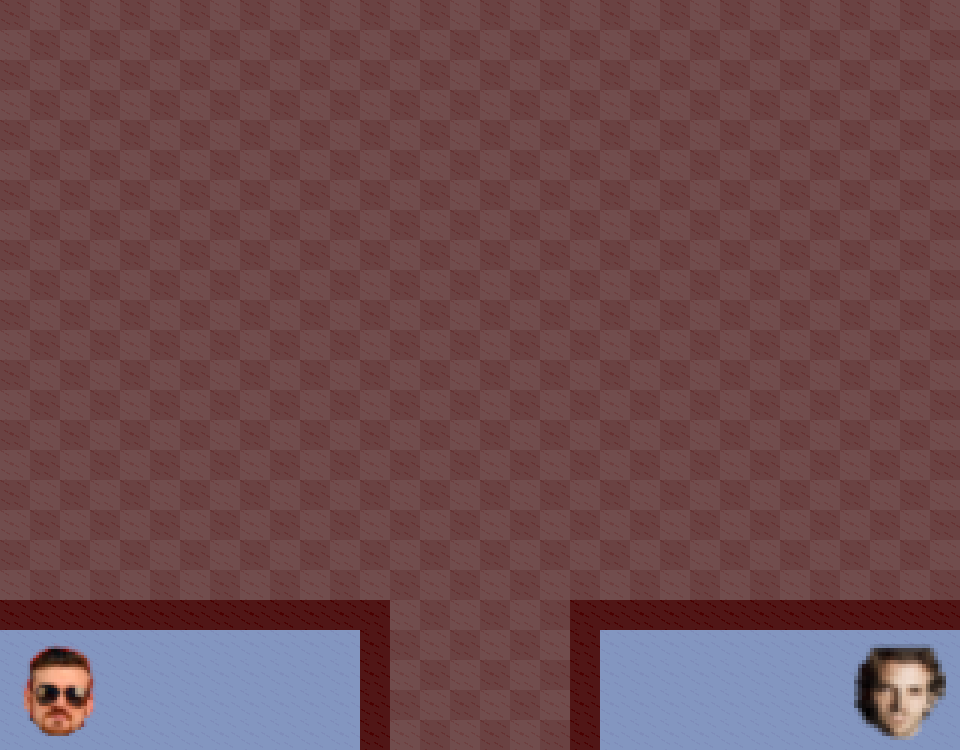
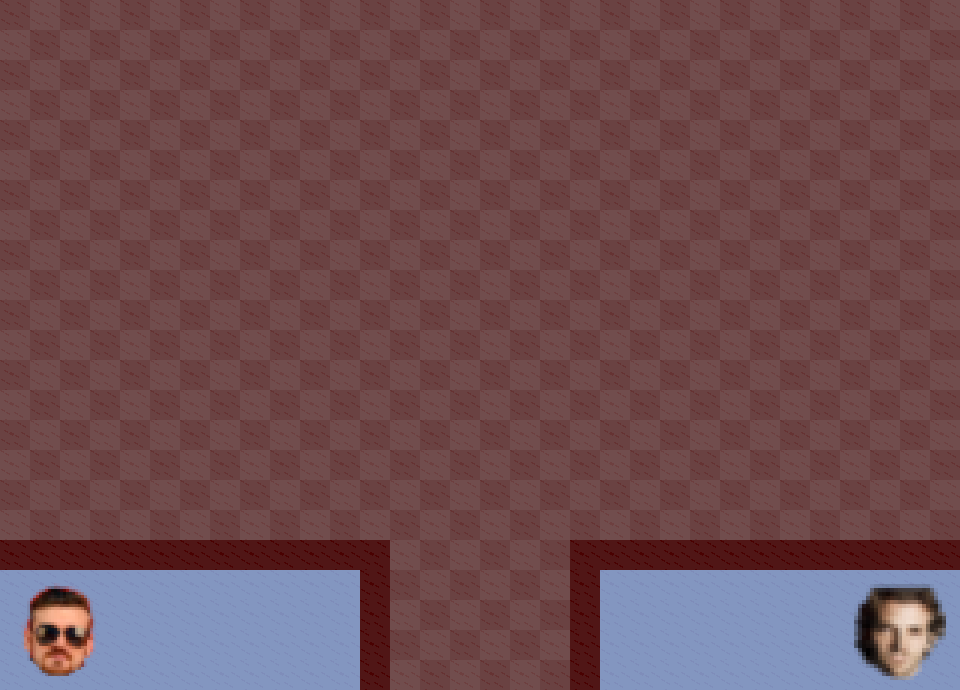
almost final

Changed region(s): [[0.5938, 0.7609, 1.0, 1.0], [0.0, 0.7609, 0.4062, 0.9739]]

diff --git a/src/org/academiadecodigo/enuminatti/saturdaynight/Game.java b/src/org/academiadecodigo/enuminatti/saturdaynight/Game.java
@@ -13,11 +13,12 @@ public class Game {
 
 
     public static final TypeOfGameObjects[] objectsToCreate = {TypeOfGameObjects.PLAYER, TypeOfGameObjects.PLAYER,
-            TypeOfGameObjects.CHICK, TypeOfGameObjects.DANCER, TypeOfGameObjects.DANCER, TypeOfGameObjects.DANCER};
+            TypeOfGameObjects.CHICK, TypeOfGameObjects.DANCER, TypeOfGameObjects.DANCER, TypeOfGameObjects.DANCER,
+            wwwwwwwwwwTypeOfGameObjects.DANCER, TypeOfGameObjects.DANCER, TypeOfGameObjects.DANCER};
 
     static public final long delay = 25;
     static public final int COLS = 32;
-    static public final int ROWS = 20;
+    static public final int ROWS = 18;
     private Grid gameGrid;
 
     private LinkedList<Collidable> mycollidabelObjects;
@@ -67,6 +68,7 @@ public class Game {
     }
 
     public void titleScreenController() {
+        bailando.play(true);
         menu = new TitleScreen();
         while (!menu.isPressed()){
             System.out.println("R");
@@ -79,8 +81,8 @@ public class Game {
     public void gamestart() throws InterruptedException {
         while (true) {
 
-
             for (int i = 0; i < mycollidabelObjects.size(); i++) {
+
                 switch (mycollidabelObjects.get(i).getType()) {
 
                     case CHICK:
@@ -102,7 +104,6 @@ public class Game {
                         break;
 
 
-
                 }
 
 
@@ -114,6 +115,7 @@ public class Game {
 
 
     }
+
 }
 
 

diff --git a/src/org/academiadecodigo/enuminatti/saturdaynight/Chick.java b/src/org/academiadecodigo/enuminatti/saturdaynight/Chick.java
@@ -18,6 +18,7 @@ public class Chick implements Collidable {
     private Grid chickGrid;
     private int moves = 0;
     private int beer = 0;
+    private boolean firsTime=true;
 
 
     public Chick(GridPosition chickPosition) {
@@ -35,13 +36,17 @@ public class Chick implements Collidable {
         //Initializing the Chick rectangle
         chickPicture = new Picture(x, y, "/chickPick.png");
         chickPicture.draw();
-        chickPosition.setCurrentDirection(Direction.RIGTH);
+        chickPosition.setCurrentDirection(Direction.UP);
 
     }
 
 
     public void move() {
-
+        if(firsTime){
+            accelerate();
+            firsTime = false;
+            return;
+        }
         int random = (int) Math.ceil(Math.random() * 100);
 
         //if the random is bigger then 95 the chick will stop moving for three iterations of the game
@@ -101,10 +106,14 @@ public class Chick implements Collidable {
     public void whenCollisionHappens() {
 
         chickPicture.delete();
-
-        Text endText = new Text(Grid.WIDTH / 2, Grid.HEIGHT / 2, "End");
-        endText.setColor(Color.RED);
-        endText.draw();
+        Picture end = new Picture(Grid.PADDING,Grid.PADDING, "/endScreen.png");
+        end.draw();
+        try {
+            Thread.sleep(6000);
+        } catch (InterruptedException ex) {
+            ex.printStackTrace();
+        }
+        System.exit(0);
 
 
     }

diff --git a/src/org/academiadecodigo/enuminatti/saturdaynight/CollisionDetector.java b/src/org/academiadecodigo/enuminatti/saturdaynight/CollisionDetector.java
@@ -111,7 +111,13 @@ public class CollisionDetector {
                     int chanceToWin3 = (int) (Math.random() * 100 + (player.getItems() * 5) + player.getConfidence());
                     System.out.println(chanceToWin3);
 
-                    if (player.getItems() == 3) {
+                    if (player.getItems() == 5) {
+                        chickWin.play(true);
+                        chick.whenCollisionHappens();
+                        continue;
+                    }
+
+                    if (player.getItems() >= 3 && player.getItems() < 5) {
                         if (chanceToWin3 > 90) {
 
                             System.out.println(chanceToWin3);
@@ -120,14 +126,7 @@ public class CollisionDetector {
                             chick.whenCollisionHappens();
                             continue;
                         }
-                        System.out.println("nao tas suficiente bebado");
-                        continue;
 
-                    }
-                    if (player.getItems() == 5) {
-                        chickWin.play(true);
-                        chick.whenCollisionHappens();
-                        continue;
                     }
                     //if(random > 20 + player.baditem*5 + chick)
                     player.resetItems();

diff --git a/src/org/academiadecodigo/enuminatti/saturdaynight/Player.java b/src/org/academiadecodigo/enuminatti/saturdaynight/Player.java
@@ -168,12 +168,12 @@ public class Player implements KeyboardHandler, Collidable {
        berrs = new Picture[3];
 
         for (int i = 0; i < myitems.length; i++) {
-            myitems[i] = new Picture((4+i)*Grid.CELLSIZE ,22* Grid.CELLSIZE ,"/cerveja2.png");
+            myitems[i] = new Picture((4+i)*Grid.CELLSIZE ,20* Grid.CELLSIZE ,"/item.png");
 
         }
 
         for (int j = 0; j < berrs.length ; j++) {
-            berrs[j] = new Picture((4+j)*Grid.CELLSIZE ,24* Grid.CELLSIZE ,"/cerveja2.png");
+            berrs[j] = new Picture((4+j)*Grid.CELLSIZE ,22* Grid.CELLSIZE ,"/cerveja2.png");
 
         }
     }
@@ -184,12 +184,12 @@ public class Player implements KeyboardHandler, Collidable {
         berrs = new Picture[3];
 
         for (int i = 4; i >= 0; i--) {
-            myitems[i] = new Picture((27-i)*Grid.CELLSIZE ,22* Grid.CELLSIZE ,"/cerveja2.png");
+            myitems[i] = new Picture((27-i)*Grid.CELLSIZE ,20* Grid.CELLSIZE ,"/item.png");
 
         }
 
         for (int j = 2; j >= 0 ; j--) {
-            berrs[j] = new Picture((27-j)*Grid.CELLSIZE ,24* Grid.CELLSIZE ,"/cerveja2.png");
+            berrs[j] = new Picture((27-j)*Grid.CELLSIZE ,22* Grid.CELLSIZE ,"/cerveja2.png");
 
         }
     }

diff --git a/src/org/academiadecodigo/enuminatti/saturdaynight/Item.java b/src/org/academiadecodigo/enuminatti/saturdaynight/Item.java
@@ -30,7 +30,7 @@ public class Item implements Collidable {
             itemPicture.draw();
             return;
         }
-        itemPicture = new Picture(x, y, "/cerveja2.png");
+        itemPicture = new Picture(x, y, "/item.png");
         itemPicture.draw();
 
     }
@@ -46,11 +46,12 @@ public class Item implements Collidable {
         int x = itemPosition.getGameGrid().colToX(itemPosition.getCol());
         int y = itemPosition.getGameGrid().rowToY(itemPosition.getRow());
 
-        itemPicture = new Picture(x, y, "/cerveja2.png");
         if (this.itemStatus == false) {
+            itemPicture = new Picture(x, y, "/cerveja2.png");
             this.itemPicture.draw();
+            return;
         }
-
+        itemPicture = new Picture(x, y, "/item.png");
         itemPicture.draw();
 
     }

diff --git a/src/org/academiadecodigo/enuminatti/saturdaynight/GameObjectFactory.java b/src/org/academiadecodigo/enuminatti/saturdaynight/GameObjectFactory.java
@@ -20,13 +20,13 @@ public class GameObjectFactory {
 
             case PLAYER:
                 if (myPlayer == null) {
-                    myPlayer = new Player(gameGrid.newGridPosition(20,16 ), 1);
+                    myPlayer = new Player(gameGrid.newGridPosition(18,17), 1);
                     return myPlayer;
                 }
-                myPlayer = new Player(gameGrid.newGridPosition(20, 16), 2);
+                myPlayer = new Player(gameGrid.newGridPosition(18, 18), 2);
                 return myPlayer;
 
-            case CHICK:return new Chick(gameGrid.newGridPosition(20, 16));
+            case CHICK:return new Chick(gameGrid.newGridPosition(18, 13));
 
             default: return  null;
 

diff --git a/src/org/academiadecodigo/enuminatti/saturdaynight/Main.java b/src/org/academiadecodigo/enuminatti/saturdaynight/Main.java
@@ -9,6 +9,7 @@ public class Main {
         Game newGame = new Game();
         newGame.titleScreenController();
 
+
     }
 
 
